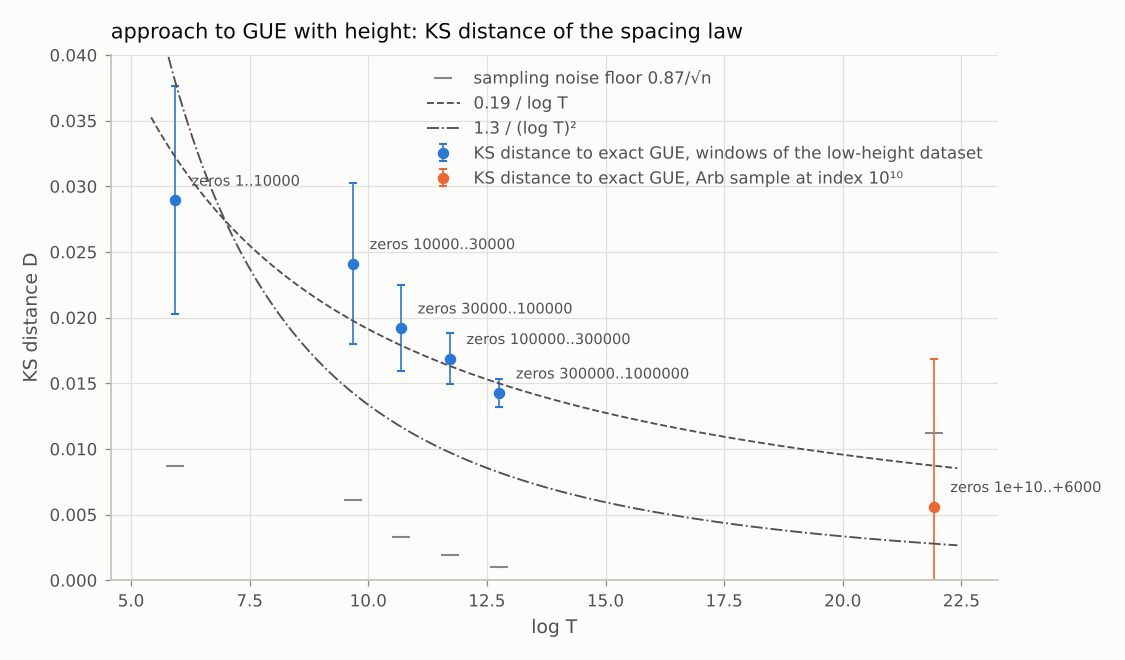
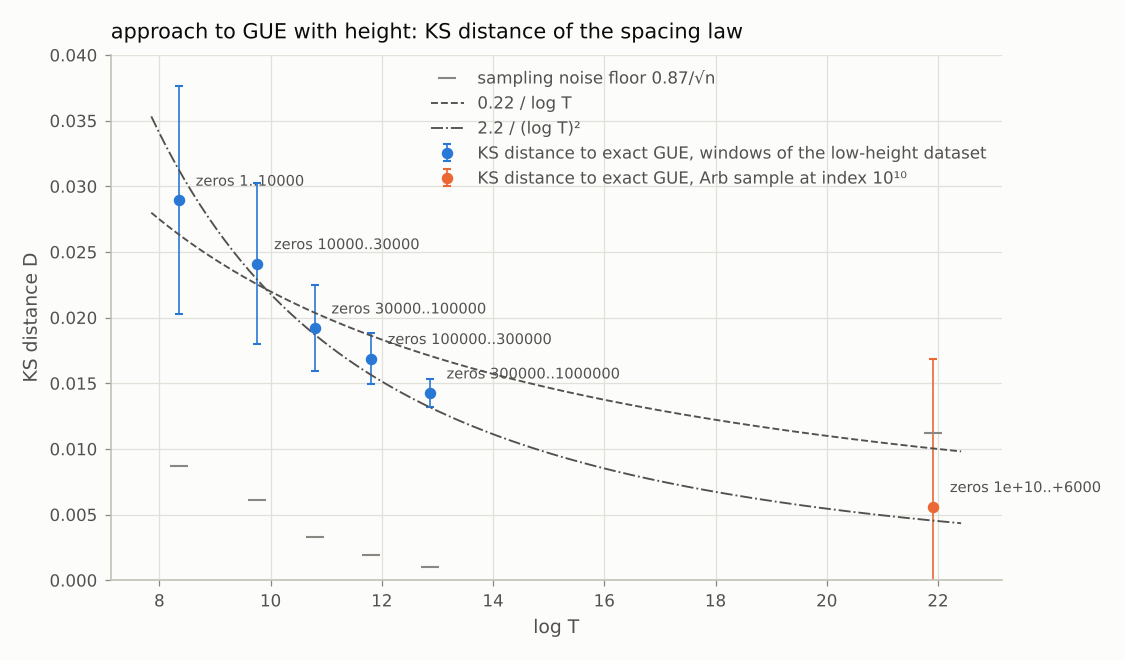
Review follow-ups: corrected window heights in the statistics, script fixes, doc corrections
- run_statistics: per-dataset log T is the mean of log t (12.40 for 1..1e6,
  was 7.98 from the endpoint geometric mean); results regenerated
- run_arithmetic: --out outside the repository no longer crashes
- speiser: docstring constant corrected
- docs: KS heights and fits (c/log T: c=0.22; c/(log T)^2: c=2.2, slightly
  better), CA brute-force coverage (n <= 1e8; Hardy–Ramanujan to 1e16),
  Speiser boxes disjoint and outward-rounded, Robin/Lagarias margins,
  Davenport–Heilbronn certification wording

Claude-Session: https://claude.ai/code/session_01Tp3x27pyiospfepszSYLmo

diff --git a/scripts/run_arithmetic.py b/scripts/run_arithmetic.py
@@ -26,13 +26,21 @@ from rh import davenport_heilbronn as D             # noqa: E402
 from rh import speiser as S                         # noqa: E402
 
 
+def _shown(path: Path) -> str:
+    """Path relative to the repository when inside it, absolute otherwise."""
+    try:
+        return str(Path(path).resolve().relative_to(ROOT))
+    except ValueError:
+        return str(Path(path).resolve())
+
+
 def _dump(obj, name, out_json: Path, t0: float, **meta):
     obj = dict(obj)
     obj["_meta"] = {"generated": datetime.now(timezone.utc).isoformat(timespec="seconds"),
                     "wall_seconds": round(time.time() - t0, 2), **meta}
     path = out_json / name
     path.write_text(json.dumps(obj, indent=1, default=float))
-    print(f"  wrote {path.relative_to(ROOT)} ({path.stat().st_size // 1024} kB)")
+    print(f"  wrote {_shown(path)} ({path.stat().st_size // 1024} kB)")
 
 
 def run_robin_lagarias(N: int, out_json: Path):
@@ -107,7 +115,7 @@ def run_dh(T: float, out_json: Path, out_fig: Path):
     _dump(r.to_dict(), "davenport_heilbronn_zeros.json", out_json, t0, T=T)
     fig = out_fig / "davenport_heilbronn_zeros.png"
     D.plot_zeros(r, str(fig))
-    print(f"  wrote {fig.relative_to(ROOT)}")
+    print(f"  wrote {_shown(fig)}")
 
 
 def main():

diff --git a/scripts/run_statistics.py b/scripts/run_statistics.py
@@ -81,7 +81,8 @@ def analyse_dataset(name, g, start_index, L_grid, n_windows, bins, pc_bins, timi
     """All statistics for one contiguous block of zeros; returns a dict."""
     out = {"name": name, "start_index": int(start_index), "n_zeros": int(g.size),
            "T_min": float(g[0]), "T_max": float(g[-1]),
-           "logT_mid": math.log(math.sqrt(float(g[0]) * float(g[-1])))}
+           "logT_mid": float(np.mean(np.log(g))),          # mean of log t over the zeros
+           "logT_endpoints": math.log(math.sqrt(float(g[0]) * float(g[-1])))}
     T_ref = float(g[len(g) // 2])            # median height, used for Berry's scale
     out["T_ref"] = T_ref
 

diff --git a/src/rh/speiser.py b/src/rh/speiser.py
@@ -20,7 +20,7 @@ positive ordinate is 2.46316... + 23.29832... i (Spira 1965).
 Zero-free regions used to bound the search rectangle
 -----------------------------------------------------
 * sigma >= 4:  |zeta'(s) + 2^{-s} log 2| <= sum_{n>=3} (log n) n^{-4}
-  = -zeta'(4) - (log 2)/16 = 0.02565 < (log 2)/16 = 0.04332, and the ratio of
+  = -zeta'(4) - (log 2)/16 = 0.02559 < (log 2)/16 = 0.04332, and the ratio of
   the two sides decreases with sigma, so zeta'(s) != 0 for sigma >= 4.
   (Titchmarsh, Thm 11.5(C), gives a sharper region.)
 * Real axis: zeta is strictly decreasing on (-2.717.., 1) and on (1, oo), so

diff --git a/docs/06_experiment_log.md b/docs/06_experiment_log.md
@@ -145,9 +145,9 @@ The identity holds to nine–ten decimals (the last two checkpoints are $-8\time
 
 **Nicolas** ($K=10^4$ primorials, 50 digits): $r_k=\frac{N_k/\varphi(N_k)}{e^{\gamma_E}\log\log N_k}$ is $>1$ and **strictly decreasing for all $k\ge2$**, from $2.888$ to $1.000\,564$ at $k=10^4$ ($p_k=104\,729$); empirically $(r_k-1)\sqrt{p_k}\log p_k\approx2.1$ (stable from $k=2000$ to $10^4$), i.e. $r_k-1\approx2.1/(\sqrt{p_k}\log p_k)$ — the rate predicted by the prime number theorem with square-root error.
 
-**Colossally abundant numbers** (first 200, exact exponent vectors via the critical-$\varepsilon$ chain, each re-derived from the closed-form exponents; the first 21 match OEIS A004490; brute force agrees for the first 10): the 200th has 433 digits and 165 prime factors. Robin's ratio is $<1$ for every CA number $>5040$ and increases (with 12 small dips among 191 steps) from $0.98325$ (55440) to $0.995794$ (#200); $(1-\text{ratio})\sqrt{\log n}$ drifts slowly from $0.16$ at $\log n\approx150$ to $0.133$ at $\log n\approx995$ (while $e^{\gamma_E}\log\log n\,(1-\text{ratio})\sqrt{\log n}$ rises from $1.41$ to $1.63$): the margin in Robin's inequality on CA numbers decays like $(\log n)^{-1/2}$ up to a slowly varying factor, as expected from $\sigma(n)/n=e^{\gamma_E}\log\log n-c\,(\log\log n)/\sqrt{\log n}+\ldots$ for CA numbers under RH. Lagarias holds for all 200 with log-slack decreasing to $0.0043$. Gronwall: $\sigma(n)/(n\log\log n)=1.77358$ at #200 vs $e^{\gamma_E}=1.78107$.
+**Colossally abundant numbers** (first 200, exact exponent vectors via the critical-$\varepsilon$ chain, each re-derived from the closed-form exponents; the first 22 match OEIS A004490; brute-force maximisation over all $n\le10^8$ agrees for the first 13, and over all Hardy–Ramanujan integers $\le10^{16}$ for the first 21): the 200th has 433 digits and 165 prime factors. Robin's ratio is $<1$ for every CA number $>5040$ and increases (with 12 small dips among 191 steps) from $0.98325$ (55440) to $0.995794$ (#200); $(1-\text{ratio})\sqrt{\log n}$ drifts slowly from $0.16$ at $\log n\approx150$ to $0.133$ at $\log n\approx995$ (while $e^{\gamma_E}\log\log n\,(1-\text{ratio})\sqrt{\log n}$ rises from $1.41$ to $1.63$): the margin in Robin's inequality on CA numbers decays like $(\log n)^{-1/2}$ up to a slowly varying factor, as expected from $\sigma(n)/n=e^{\gamma_E}\log\log n-c\,(\log\log n)/\sqrt{\log n}+\ldots$ for CA numbers under RH. Lagarias holds for all 200 with log-slack decreasing to $0.0043$. Gronwall: $\sigma(n)/(n\log\log n)=1.77358$ at #200 vs $e^{\gamma_E}=1.78107$.
 
-**Speiser** ($T=2000$, rectangle $-1\le\sigma\le4$, $0.25\le t\le2000$; the double pole at $s=1$ gives winding $-2$ on a small box): **1298 zeros of $\zeta'$, all certified by Krawczyk's test with rigorous bounds, all with $\Re s>\tfrac12$**; minimum $\Re s=0.503428$ at $t=1977.2224$ (zeros of $\zeta'$ approach the line from the right exactly where $\zeta$'s zeros are closest — cf. Levinson–Montgomery); maximum $\Re s=2.658$. Counts agree with the independent whole-rectangle winding number and with Berndt's main term $N(T)-\frac T{2\pi}\log2$ ($1296.4$ vs $1298$). First zero $2.46316187+23.29832049i$ (Spira).
+**Speiser** ($T=2000$, rectangle $-1\le\sigma\le4$, $0.25\le t\le2000$; the double pole at $s=1$ gives winding $-2$ on a small box): **1298 zeros of $\zeta'$, all certified by Krawczyk's test with rigorous, outward-rounded bounds and pairwise disjoint boxes (so they are distinct), all with $\Re s>\tfrac12$**; minimum $\Re s=0.503428$ at $t=1977.2224$ (zeros of $\zeta'$ approach the line from the right exactly where $\zeta$'s zeros are closest — cf. Levinson–Montgomery); maximum $\Re s=2.658$. Counts agree with the independent whole-rectangle winding number and with Berndt's main term $N(T)-\frac T{2\pi}\log2$ ($1296.4$ vs $1298$). First zero $2.46316187+23.29832049i$ (Spira).
 
 **Davenport–Heilbronn control** ($0<t<300$): $\kappa=0.2840790438404123$ (closed form $\tan(\arg\varepsilon/2)$ with the root number $\varepsilon=\tau(\chi)/(i\sqrt5)$, verified to $10^{-40}$); functional equation residual $<2\times10^{-37}$. **204 zeros on the line and 5 certified off-line zeros** (10 with their mirrors), total winding $214=204+2\cdot5$: $0.808517182457+85.699348485378i$, $0.650830080610+114.163342730757i$, $0.574356050451+166.479305913168i$, $0.724257694627+176.702461242856i$, $0.869530579641+240.404672351441i$ (the first two agree with Spira 1994 / Balanzario–Sánchez-Ortiz 2007 to their printed precision). Minimum distance of an off-line zero from the line: $0.0744$. Figure `davenport_heilbronn_zeros.png`. This is the control for every criterion in this repository: a Dirichlet series with real coefficients, entire continuation and a $\zeta$-type functional equation for which RH is false. Its only missing property is the Euler product.
 
@@ -159,7 +159,7 @@ The identity holds to nine–ten decimals (the last two checkpoints are $-8\time
 
 **Reference laws.** Exact GUE spacing density $p_2(s)=\partial_s^2\det(I-K_s)$ (sine kernel on $[0,s]$) by Bornemann's Gauss–Legendre Nyström method (40–90 nodes agree to $10^{-15}$), Chebyshev-interpolated; checks: $\int p_2=1+3\times10^{-10}$, mean $1+10^{-11}$, variance $0.17999$ (Wigner surmise $0.17810$), small-$s$ series $\pi^2s^2/3-2\pi^4s^4/45+\dots$ matched to $1.6\times10^{-10}$, Jacobi-formula derivatives agree to $10^{-11}$. $\max|p_2-\text{Wigner}|=0.0052$ at $s\approx1.1$.
 
-**Spacings.** Unfolded by $\theta(\gamma)/\pi$ (long double; needed at $x\sim10^{10}$). Zeros $1..10^5$: mean spacing $1.00000$, variance $0.1607$ (GUE $0.1800$); sample at $10^{10}$: variance $0.1779$. Kolmogorov–Smirnov distance to exact GUE (noise floor $0.87/\sqrt n$ in parentheses; the quoted $\log T$ is that of the geometric mean of the window endpoints): zeros $1..10^4$: $0.0289$ $(0.0087)$ at $\log T=5.9$; $10^4..3\times10^4$: $0.0241$ $(0.0061)$; $3\times10^4..10^5$: $0.0192$ $(0.0033)$; aggregate $1..10^5$: $0.0207$ at $s=0.646$ with the empirical CDF *below* GUE (fewer small spacings: stronger repulsion at finite height); sample at $\log T=21.9$: $0.0056$ $(0.0112)$ — indistinguishable from GUE. The three low windows plus the sample are consistent with both $c/\log T$ ($c=0.19$) and $c/(\log T)^2$ ($c=1.2$) and cannot discriminate (Bogomolny–Bohigas–Leboeuf–Monastra 2006 predict the latter via an effective CUE dimension $N_{\rm eff}\propto\log(T/2\pi)$).
+**Spacings.** Unfolded by $\theta(\gamma)/\pi$ (long double; needed at $x\sim10^{10}$). Zeros $1..10^5$: mean spacing $1.00000$, variance $0.1607$ (GUE $0.1800$); sample at $10^{10}$: variance $0.1779$. Kolmogorov–Smirnov distance to exact GUE. The noise floor $0.87/\sqrt n$ is given in parentheses; it is the mean of the null Kolmogorov law, whose median is $0.83/\sqrt n$. The quoted $\log T$ is the mean of $\log t$ over the window's spacings (corrected after review; an earlier version used the geometric mean of the window endpoints, which sits far below where the spacings lie). Zeros $1..10^4$: $0.0289$ $(0.0087)$ at $\log T=8.35$; $10^4..3\times10^4$: $0.0241$ $(0.0061)$; $3\times10^4..10^5$: $0.0192$ $(0.0033)$; aggregate $1..10^5$: $0.0207$ at $s=0.646$ with the empirical CDF *below* GUE (fewer small spacings: stronger repulsion at finite height); sample at $\log T=21.9$: $0.0056$ $(0.0112)$ — indistinguishable from GUE. With the corrected heights, the five low windows of the $10^6$-zero run fit $c/\log T$ with $c=0.22$ (rms $2.1\times10^{-3}$) and $c/(\log T)^2$ with $c=2.2$ (rms $1.4\times10^{-3}$); the latter fits slightly better, as Bogomolny–Bohigas–Leboeuf–Monastra (2006) predict via an effective CUE dimension $N_{\rm eff}\propto\log(T/2\pi)$. The $10^{10}$ sample ($D=0.0056$, below its noise floor) cannot discriminate.
 
 **Pair correlation.** First $10^5$ zeros (numbers from the first run, superseded in the JSON by the $10^6$ re-run, which gives $\max|R_2-R_2^{\rm GUE}|=0.023$ on $[0.9,1.1]$, rms deviation $0.0148$ vs Poisson error $0.0042$, $\chi^2/\text{bin}=24$): on $\alpha\in[0.9,1.1]$, $\max|R_2-R_2^{\rm GUE}|=0.034$; over all bins the rms deviation $0.024$ exceeds the Poisson error $0.013$ ($\chi^2/\text{bin}=5.8$): real finite-height structure — excess at $\alpha\approx0.4$, suppression below $0.2$, dip at $\alpha\approx1.3$–$1.5$, the Bogomolny–Keating pattern. The $10^{10}$ sample is consistent with GUE ($\chi^2/\text{bin}=0.59$). Montgomery's form factor $F(\alpha)$: plateau $0.999$ (first $10^5$) and $1.005$ (sample) for $\alpha>1.2$ with the diagonal normalisation; $F(0.5)=0.650$ vs the finite-height GUE expectation $0.661$.
 

diff --git a/docs/02_equivalent_formulations.md b/docs/02_equivalent_formulations.md
@@ -43,12 +43,12 @@ $d_N^2=\inf_{c\in\mathbb R^N}\|\chi_{(0,1]}-\sum_{k\le N}c_k\rho_k\|^2=\inf_{A_N
 |---|---|---|
 | zeros on the line, $N(T)$ | `zeta.py`, `verify.py` (independent Riemann–Siegel + Turing), `data.py` (Arb) | Arb zeros: yes; Turing in float64: certified modulo float rounding |
 | Li $\lambda_n>0$ | `li.py` | high-precision series for small $n$ (yes); zero-sum with tail for large $n$ (error estimated) |
-| Robin / Lagarias / Nicolas / CA numbers | `arithmetic.py` | $\sigma(n)$ exact (integer sieve); the inequalities are decided in float64/long double, with margins $\gg$ rounding; CA numbers exact, their ratios at 60 digits |
+| Robin / Lagarias / Nicolas / CA numbers | `arithmetic.py` | $\sigma(n)$ exact (integer sieve); the inequalities are decided in float64/long double; the smallest relative margins up to $10^7$ are $8.7\times10^{-4}$ (Robin, $n=720$) and $1.1\times10^{-2}$ (Lagarias, $n=12$), against rounding $\lesssim10^{-15}$, and any decision within $10^{-10}$ is re-decided in Arb; CA numbers exact, their ratios at 60 digits |
 | Speiser | `speiser.py` | numerical root finding + argument principle |
 | Nyman–Beurling $d_N$ | `nyman_beurling.py` | Arb ball enclosures for $N\le$ several hundred; float64 to $N\sim10^4$ with condition-number error bound |
 | Weil explicit formula / positivity | `explicit_formula.py` | numerical (truncation errors estimated) |
 | de Bruijn–Newman dynamics | `debruijn_newman.py` | numerical ODE |
-| Davenport–Heilbronn (RH fails without Euler product) | `davenport_heilbronn.py` | numerical, zeros certified by argument principle to residual $<10^{-12}$ |
+| Davenport–Heilbronn (RH fails without Euler product) | `davenport_heilbronn.py` | off-line zeros certified by the Krawczyk test (rigorous $\Re s>\tfrac12$, pairwise distinct); on-line zeros by sign changes of the real Hardy-type function; total count by the argument principle |
 | GUE statistics | `statistics.py` | numerical |
 | Balazard–Saias–Yor, Volchkov integrals | `integral_criteria.py` | numerical (tanh-sinh, Arb $\zeta$), identities verified to $\sim10^{-9}$ / $10^{-7}$ |
 | Báez-Duarte sequential $c_k$ | `sequential_criteria.py` | float64/mpmath exact sums; explicit formula over zeros |
